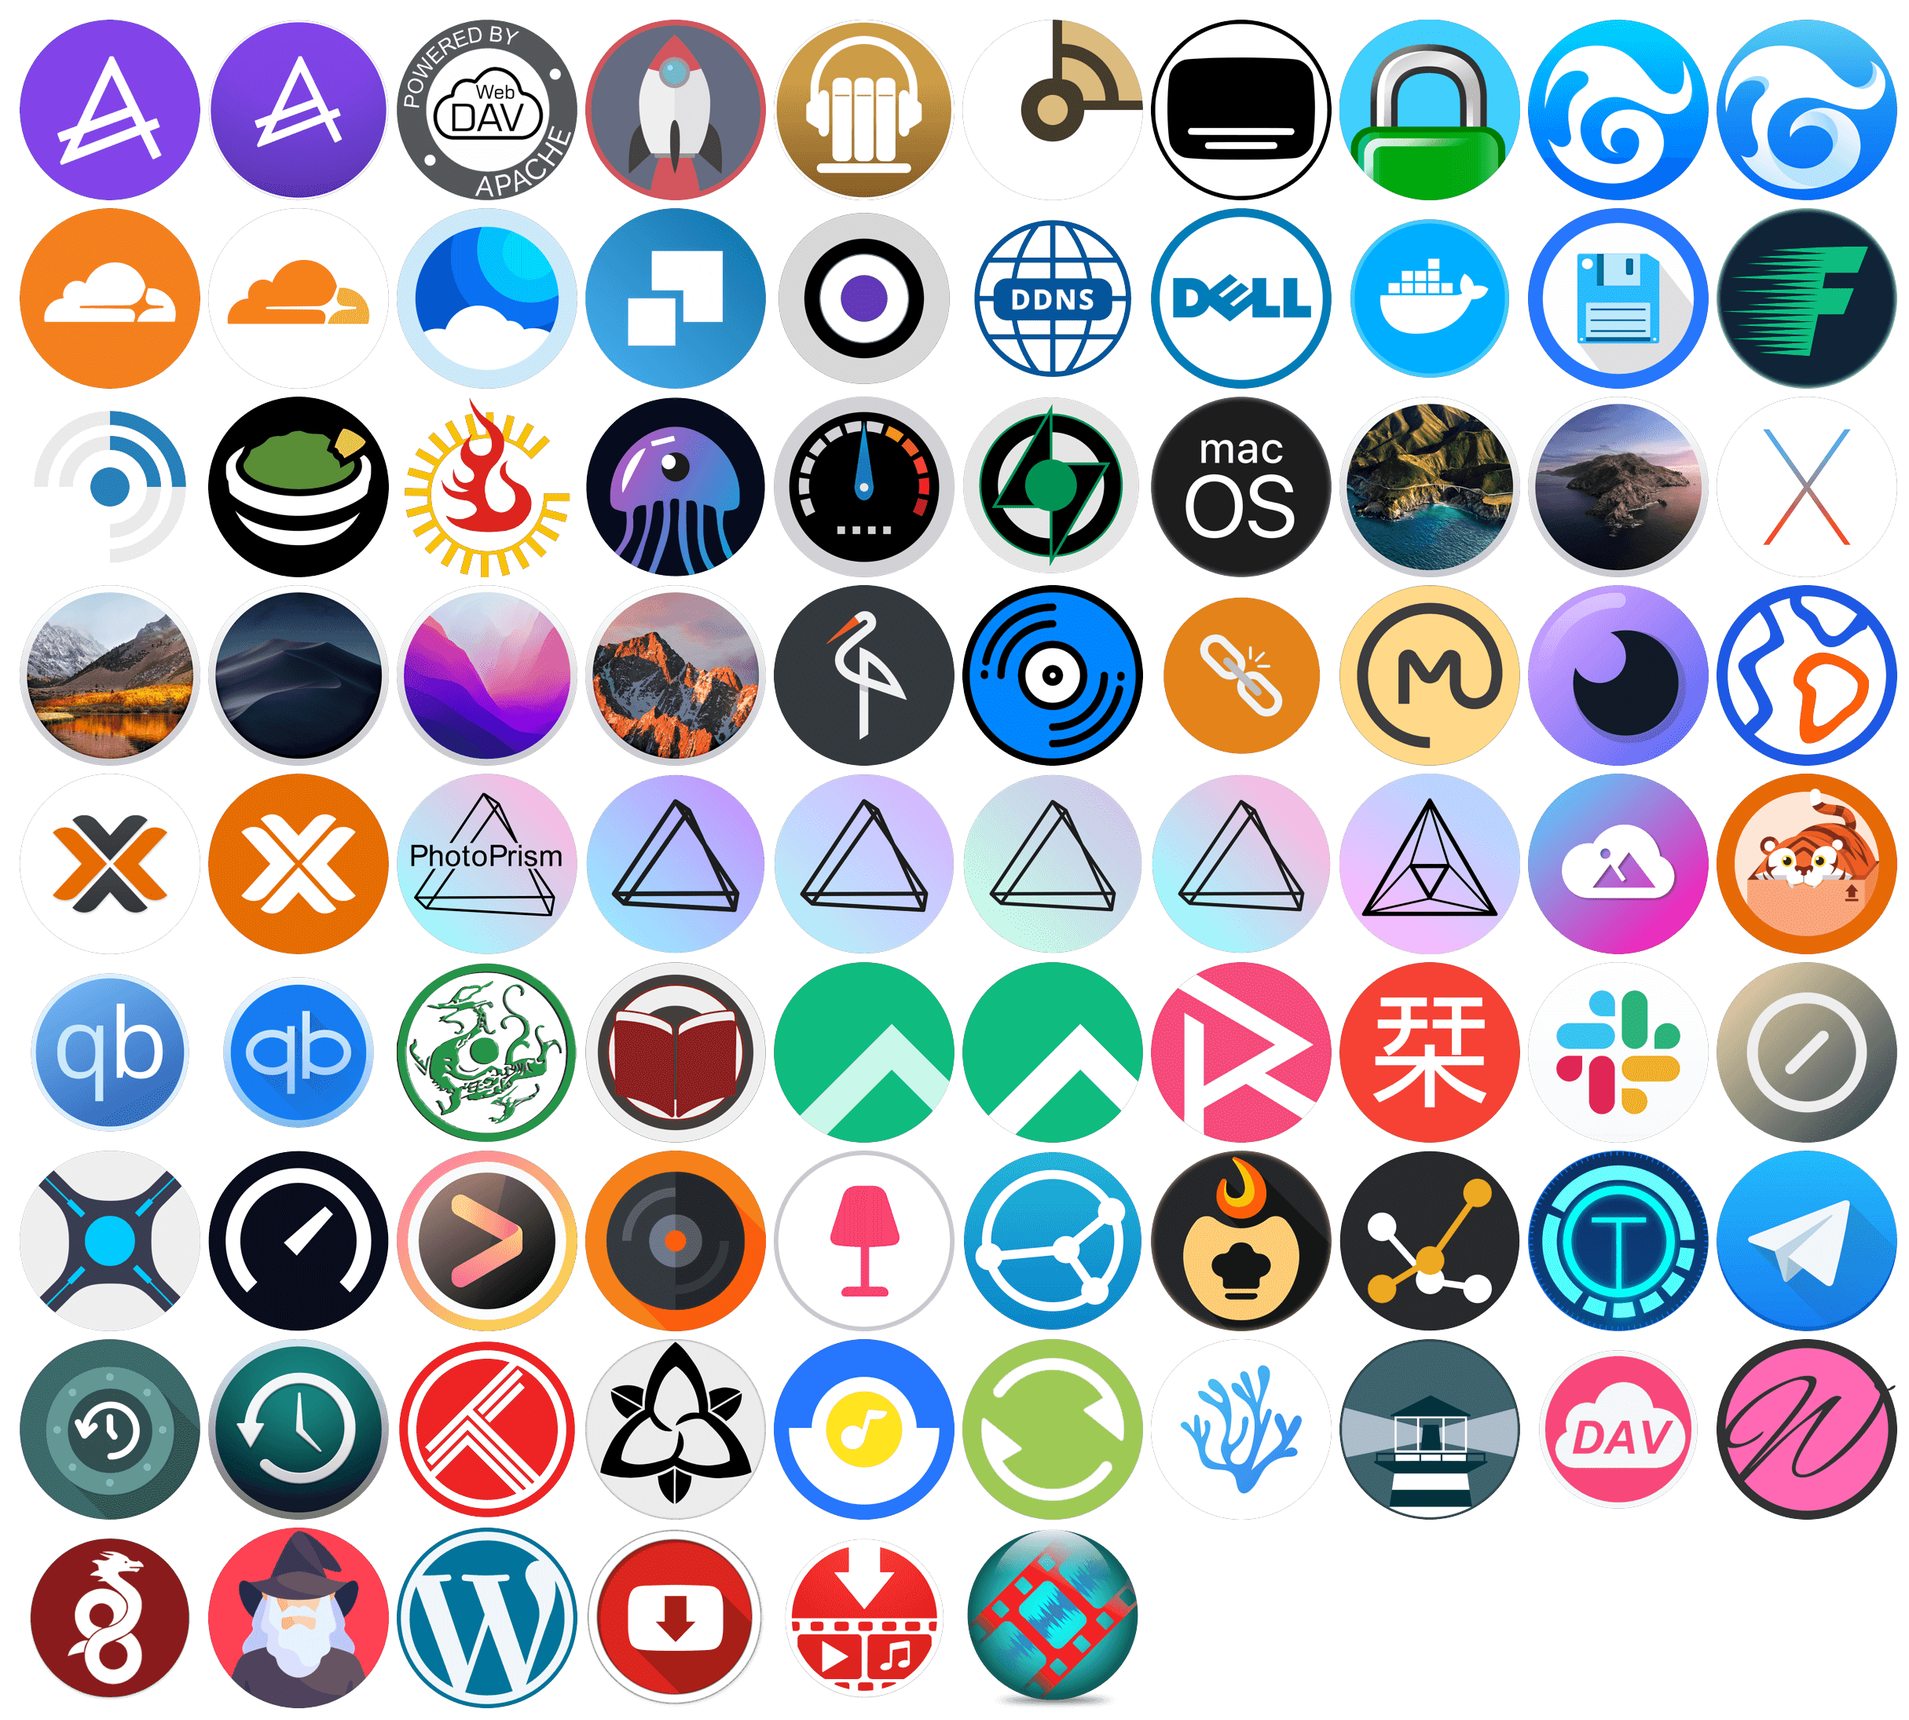
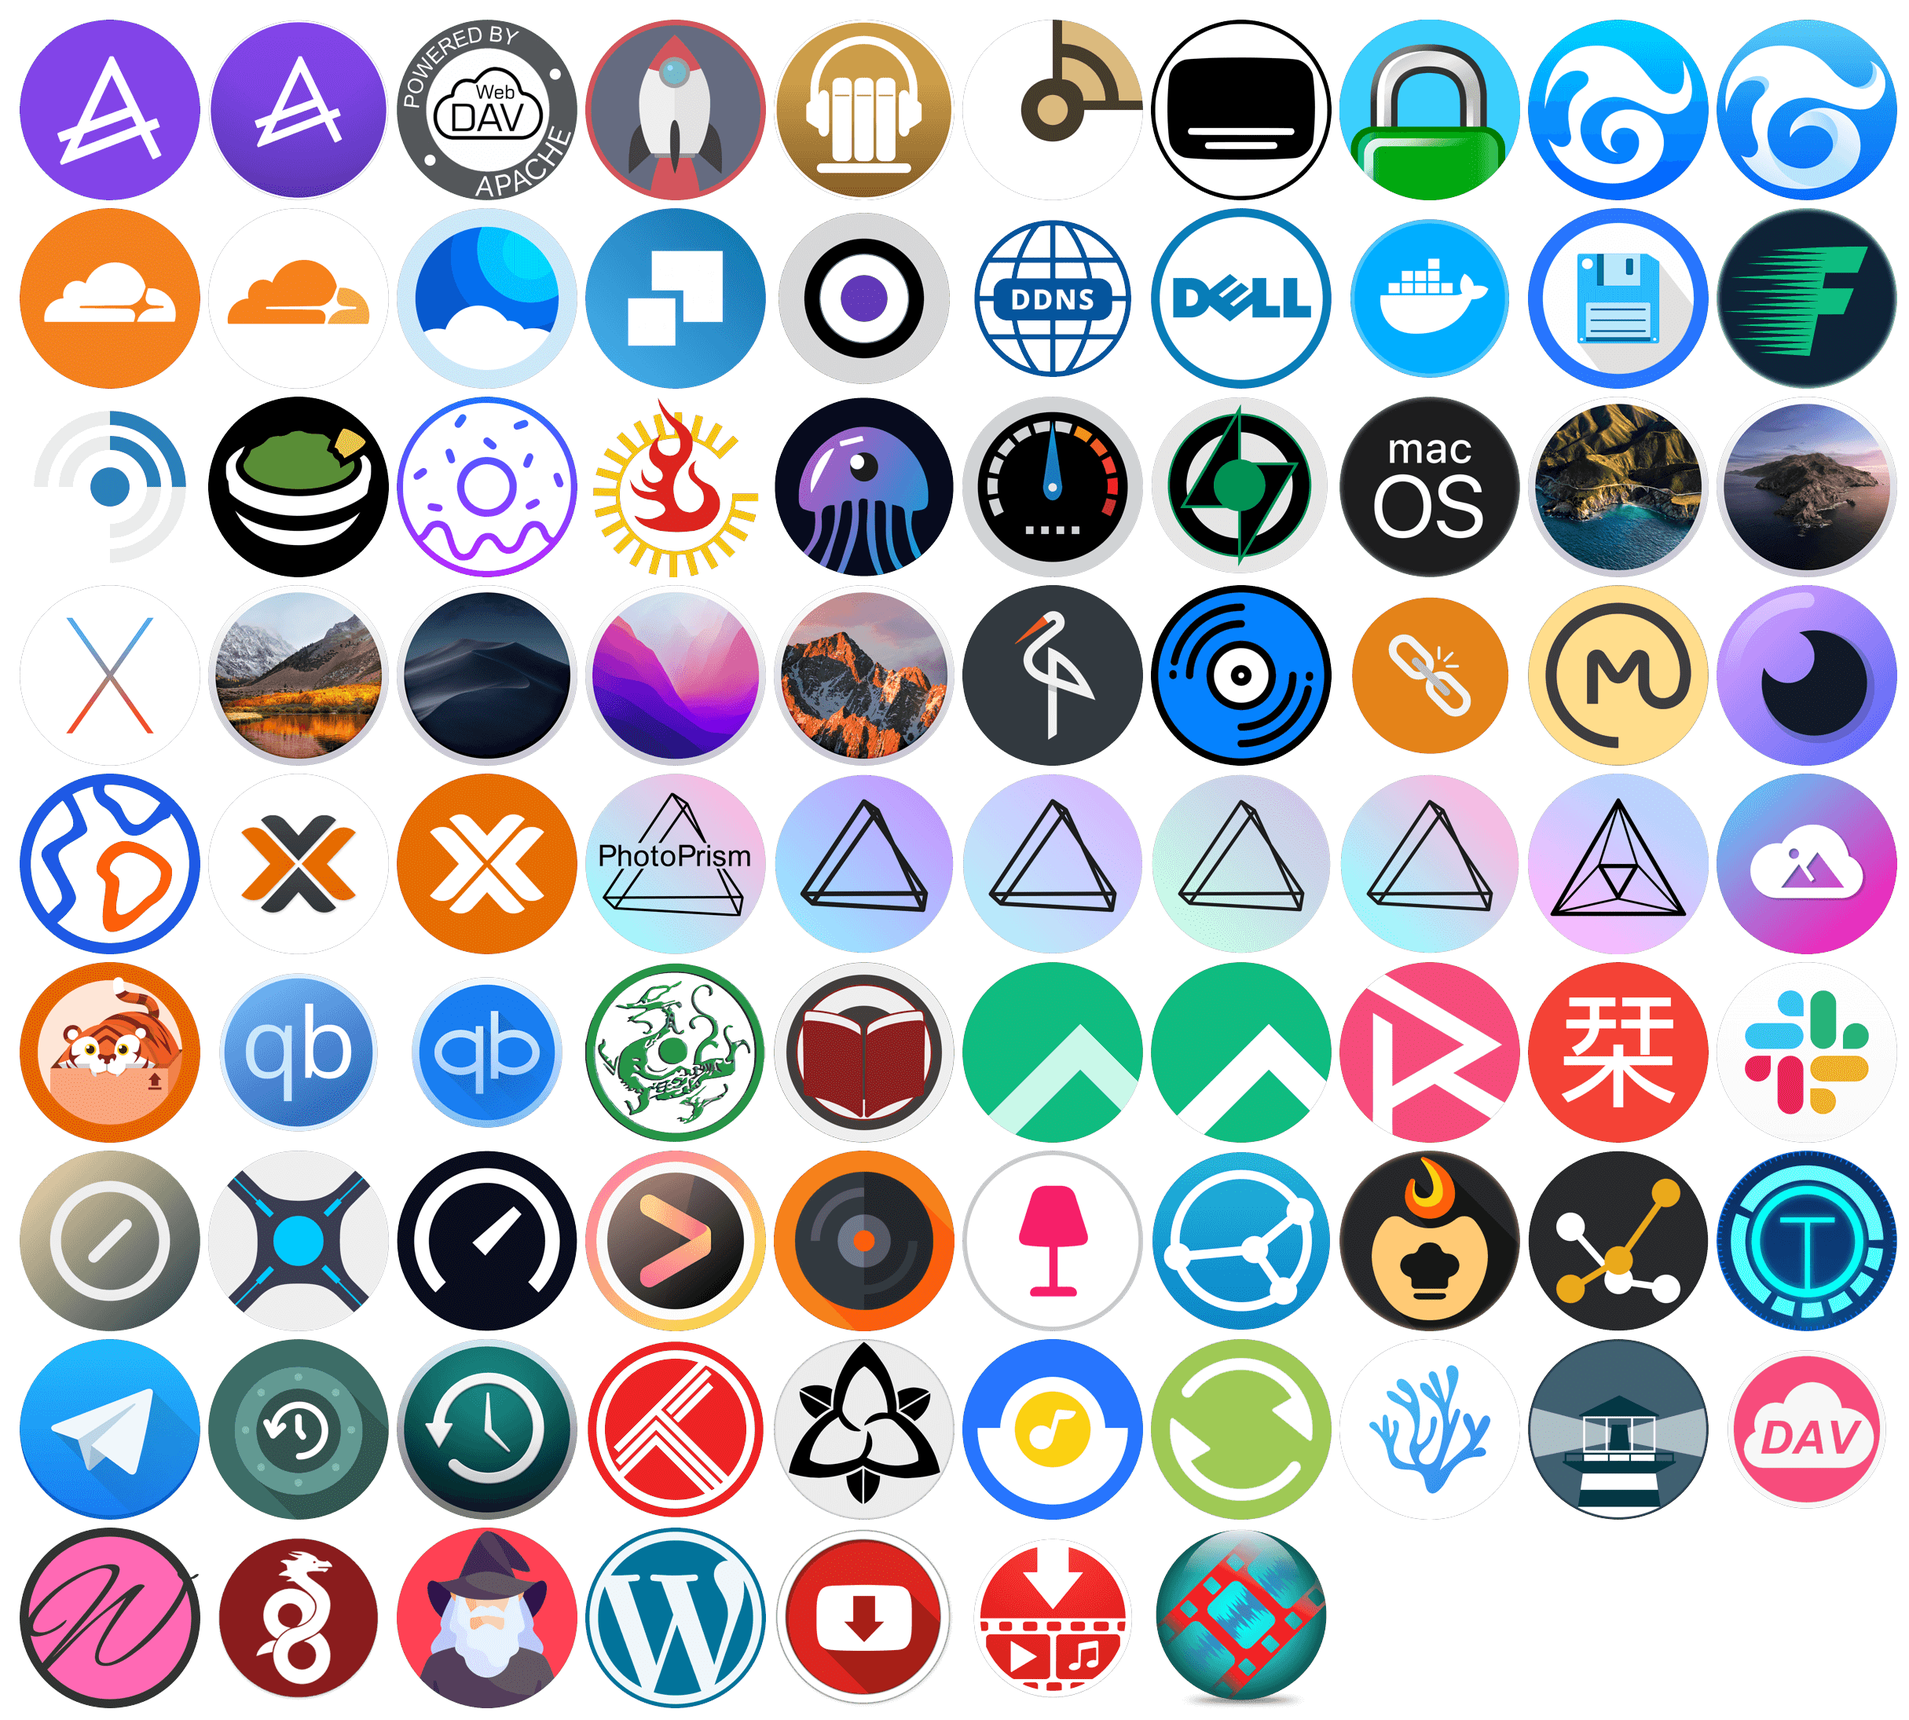
Add Homer、PlexMetaManager、Radarr

diff --git a/README.md b/README.md
@@ -71,7 +71,7 @@
 
 - 例如，图标文件在 `/mnt/user/appdata/icons` 下，则图标地址填写 `/mnt/user/appdata/icons/xxxxx.png` 或者 `http://127.0.0.1/mnt/user/appdata/icons/xxxxx.png`，将 xxxxx 换成对应的图标名称即可，<a href="#圆角矩形图标"><strong>图标名称预览在此 »</strong></a>
 
-# 图标预览（当前共计 831 个）
+# 图标预览（当前共计 840 个）
 ## 圆角矩形图标
 <!-- START BORDER-RADIUS ICONS -->
 <img src="https://github.com/xushier/HD-Icons/blob/main/_icons-radius.png?raw=true" alt="radius">
@@ -86,7 +86,7 @@
 <!-- START SVG ICONS -->
 
 <!-- END SVG ICONS -->
-<img src="svg/Actual_A.svg" alt="Actual_A" width="95"> <img src="svg/Adguard-home_A.svg" alt="Adguard-home_A" width="95"> <img src="svg/Adminer_A.svg" alt="Adminer_A" width="95"> <img src="svg/Alicloud_A.svg" alt="Alicloud_A" width="95"> <img src="svg/Alist_A.svg" alt="Alist_A" width="95"> <img src="svg/Amule_A.svg" alt="Amule_A" width="95"> <img src="svg/Apache_A.svg" alt="Apache_A" width="95"> <img src="svg/Apache_B.svg" alt="Apache_B" width="95"> <img src="svg/Apache_C.svg" alt="Apache_C" width="95"> <img src="svg/Appletv+_A.svg" alt="Appletv+_A" width="95"> <img src="svg/Arch_A.svg" alt="Arch_A" width="95"> <img src="svg/Audio-bookshelf_A.svg" alt="Audio-bookshelf_A" width="95"> <img src="svg/Authelia_A.svg" alt="Authelia_A" width="95"> <img src="svg/Authelia_B.svg" alt="Authelia_B" width="95"> <img src="svg/Autobrr_A.svg" alt="Autobrr_A" width="95"> <img src="svg/Baidu_A.svg" alt="Baidu_A" width="95"> <img src="svg/Bard_A.svg" alt="Bard_A" width="95"> <img src="svg/Bazarr_A.svg" alt="Bazarr_A" width="95"> <img src="svg/Bilibili_A.svg" alt="Bilibili_A" width="95"> <img src="svg/Bililive-recorder_A.svg" alt="Bililive-recorder_A" width="95"> <img src="svg/Bitwarden_A.svg" alt="Bitwarden_A" width="95"> <img src="svg/Bitwarden_B.svg" alt="Bitwarden_B" width="95"> <img src="svg/Caddy_A.svg" alt="Caddy_A" width="95"> <img src="svg/Calibre-web_A.svg" alt="Calibre-web_A" width="95"> <img src="svg/Casaos_A.svg" alt="Casaos_A" width="95"> <img src="svg/Centos_A.svg" alt="Centos_A" width="95"> <img src="svg/Centos_B.svg" alt="Centos_B" width="95"> <img src="svg/Chatgpt_A.svg" alt="Chatgpt_A" width="95"> <img src="svg/Chatgpt_B.svg" alt="Chatgpt_B" width="95"> <img src="svg/Chevereto_A.svg" alt="Chevereto_A" width="95"> <img src="svg/Chrome_A.svg" alt="Chrome_A" width="95"> <img src="svg/Cloud-beaver_A.svg" alt="Cloud-beaver_A" width="95"> <img src="svg/Cloud-beaver_B.svg" alt="Cloud-beaver_B" width="95"> <img src="svg/Cloudflare_A.svg" alt="Cloudflare_A" width="95"> <img src="svg/Cloudflare_B.svg" alt="Cloudflare_B" width="95"> <img src="svg/Cloudreve_A.svg" alt="Cloudreve_A" width="95"> <img src="svg/Code-server_A.svg" alt="Code-server_A" width="95"> <img src="svg/Codex-docs_A.svg" alt="Codex-docs_A" width="95"> <img src="svg/Cyberchef_A.svg" alt="Cyberchef_A" width="95"> <img src="svg/Cyberchef_B.svg" alt="Cyberchef_B" width="95"> <img src="svg/Debian_A.svg" alt="Debian_A" width="95"> <img src="svg/Debian_B.svg" alt="Debian_B" width="95"> <img src="svg/Deepin_A.svg" alt="Deepin_A" width="95"> <img src="svg/Dell_A.svg" alt="Dell_A" width="95"> <img src="svg/Deluge_A.svg" alt="Deluge_A" width="95"> <img src="svg/Directus_A.svg" alt="Directus_A" width="95"> <img src="svg/Directus_B.svg" alt="Directus_B" width="95"> <img src="svg/Discord_A.svg" alt="Discord_A" width="95"> <img src="svg/Docker-registry_A.svg" alt="Docker-registry_A" width="95"> <img src="svg/Docker_A.svg" alt="Docker_A" width="95"> <img src="svg/Docker_B.svg" alt="Docker_B" width="95"> <img src="svg/Docker_C.svg" alt="Docker_C" width="95"> <img src="svg/Docker_D.svg" alt="Docker_D" width="95"> <img src="svg/Dootask.svg" alt="Dootask" width="95"> <img src="svg/Dozzle_A.svg" alt="Dozzle_A" width="95"> <img src="svg/Drawio_A.svg" alt="Drawio_A" width="95"> <img src="svg/Duplicati_A.svg" alt="Duplicati_A" width="95"> <img src="svg/Element_A.svg" alt="Element_A" width="95"> <img src="svg/Focalboard_A.svg" alt="Focalboard_A" width="95"> <img src="svg/Gcore_A.svg" alt="Gcore_A" width="95"> <img src="svg/It-tools_A.svg" alt="It-tools_A" width="95"> <img src="svg/Jfa-go_A.svg" alt="Jfa-go_A" width="95"> <img src="svg/Jfa-go_B.svg" alt="Jfa-go_B" width="95"> <img src="svg/Librespeed_A.svg" alt="Librespeed_A" width="95"> <img src="svg/Nezha_A.svg" alt="Nezha_A" width="95"> <img src="svg/Nginx_A.svg" alt="Nginx_A" width="95"> <img src="svg/Nginx_B.svg" alt="Nginx_B" width="95"> <img src="svg/Nginx_C.svg" alt="Nginx_C" width="95"> <img src="svg/Nut_A.svg" alt="Nut_A" width="95"> <img src="svg/Nvidia_A.svg" alt="Nvidia_A" width="95"> <img src="svg/Plex_A.svg" alt="Plex_A" width="95"> <img src="svg/Plex_B.svg" alt="Plex_B" width="95"> <img src="svg/Plex_C.svg" alt="Plex_C" width="95"> <img src="svg/Ptools_A.svg" alt="Ptools_A" width="95"> <img src="svg/Qnap_A.svg" alt="Qnap_A" width="95"> <img src="svg/Qnap_B.svg" alt="Qnap_B" width="95"> <img src="svg/Quill_A.svg" alt="Quill_A" width="95"> <img src="svg/Rocky_A.svg" alt="Rocky_A" width="95"> <img src="svg/Rog_A.svg" alt="Rog_A" width="95"> <img src="svg/Snapdrop_A.svg" alt="Snapdrop_A" width="95"> <img src="svg/Swing-music_A.svg" alt="Swing-music_A" width="95"> <img src="svg/Team-mapper_A.svg" alt="Team-mapper_A" width="95"> <img src="svg/Telegram_A.svg" alt="Telegram_A" width="95"> <img src="svg/Telegram_B.svg" alt="Telegram_B" width="95"> <img src="svg/Telegram_C.svg" alt="Telegram_C" width="95"> <img src="svg/Ubuntu_A.svg" alt="Ubuntu_A" width="95"> <img src="svg/Ubuntu_B.svg" alt="Ubuntu_B" width="95"> <img src="svg/Ubuntu_C.svg" alt="Ubuntu_C" width="95"> <img src="svg/Unbalance_A.svg" alt="Unbalance_A" width="95"> <img src="svg/Unlock-music_A.svg" alt="Unlock-music_A" width="95"> <img src="svg/Unraid_A.svg" alt="Unraid_A" width="95"> <img src="svg/Uptime-kuma_A.svg" alt="Uptime-kuma_A" width="95"> <img src="svg/V2raya_A.svg" alt="V2raya_A" width="95"> <img src="svg/Vagrant_A.svg" alt="Vagrant_A" width="95"> <img src="svg/Vertex_A.svg" alt="Vertex_A" width="95"> <img src="svg/Vertex_B.svg" alt="Vertex_B" width="95"> <img src="svg/Vmware_A.svg" alt="Vmware_A" width="95"> <img src="svg/Vscode_A.svg" alt="Vscode_A" width="95"> <img src="svg/Vscode_B.svg" alt="Vscode_B" width="95"> <img src="svg/Vscodium_A.svg" alt="Vscodium_A" width="95"> <img src="svg/Vscodium_B.svg" alt="Vscodium_B" width="95"> <img src="svg/Wallabag_A.svg" alt="Wallabag_A" width="95"> <img src="svg/Wallabag_B.svg" alt="Wallabag_B" width="95"> <img src="svg/Wallabag_C.svg" alt="Wallabag_C" width="95"> <img src="svg/Watchtower_A.svg" alt="Watchtower_A" width="95"> <img src="svg/Wbo_A.svg" alt="Wbo_A" width="95"> <img src="svg/Wechat_A.svg" alt="Wechat_A" width="95"> <img src="svg/Wechat_B.svg" alt="Wechat_B" width="95"> <img src="svg/Wekan_A.svg" alt="Wekan_A" width="95"> <img src="svg/Wekan_B.svg" alt="Wekan_B" width="95"> <img src="svg/Whisparr_A.svg" alt="Whisparr_A" width="95"> <img src="svg/Wikijs_A.svg" alt="Wikijs_A" width="95"> <img src="svg/Wireguard_A.svg" alt="Wireguard_A" width="95"> <img src="svg/Wise-mapping_A.svg" alt="Wise-mapping_A" width="95"> <img src="svg/Wordpress_A.svg" alt="Wordpress_A" width="95"> <img src="svg/Youtube_A.svg" alt="Youtube_A" width="95"> <img src="svg/Youtube_B.svg" alt="Youtube_B" width="95"> <img src="svg/Youtube_C.svg" alt="Youtube_C" width="95"> <img src="svg/Youtube_D.svg" alt="Youtube_D" width="95"> <img src="svg/Youtube_E.svg" alt="Youtube_E" width="95"> <img src="svg/Zigbeemqtt_A.svg" alt="Zigbeemqtt_A" width="95">
+<img src="svg/Actual_A.svg" alt="Actual_A" width="95"> <img src="svg/Adguard-home_A.svg" alt="Adguard-home_A" width="95"> <img src="svg/Adminer_A.svg" alt="Adminer_A" width="95"> <img src="svg/Alicloud_A.svg" alt="Alicloud_A" width="95"> <img src="svg/Alist_A.svg" alt="Alist_A" width="95"> <img src="svg/Amule_A.svg" alt="Amule_A" width="95"> <img src="svg/Apache_A.svg" alt="Apache_A" width="95"> <img src="svg/Apache_B.svg" alt="Apache_B" width="95"> <img src="svg/Apache_C.svg" alt="Apache_C" width="95"> <img src="svg/Appletv+_A.svg" alt="Appletv+_A" width="95"> <img src="svg/Arch_A.svg" alt="Arch_A" width="95"> <img src="svg/Audio-bookshelf_A.svg" alt="Audio-bookshelf_A" width="95"> <img src="svg/Authelia_A.svg" alt="Authelia_A" width="95"> <img src="svg/Authelia_B.svg" alt="Authelia_B" width="95"> <img src="svg/Autobrr_A.svg" alt="Autobrr_A" width="95"> <img src="svg/Baidu_A.svg" alt="Baidu_A" width="95"> <img src="svg/Bard_A.svg" alt="Bard_A" width="95"> <img src="svg/Bazarr_A.svg" alt="Bazarr_A" width="95"> <img src="svg/Bilibili_A.svg" alt="Bilibili_A" width="95"> <img src="svg/Bililive-recorder_A.svg" alt="Bililive-recorder_A" width="95"> <img src="svg/Bitwarden_A.svg" alt="Bitwarden_A" width="95"> <img src="svg/Bitwarden_B.svg" alt="Bitwarden_B" width="95"> <img src="svg/Caddy_A.svg" alt="Caddy_A" width="95"> <img src="svg/Calibre-web_A.svg" alt="Calibre-web_A" width="95"> <img src="svg/Casaos_A.svg" alt="Casaos_A" width="95"> <img src="svg/Centos_A.svg" alt="Centos_A" width="95"> <img src="svg/Centos_B.svg" alt="Centos_B" width="95"> <img src="svg/Chatgpt_A.svg" alt="Chatgpt_A" width="95"> <img src="svg/Chatgpt_B.svg" alt="Chatgpt_B" width="95"> <img src="svg/Chevereto_A.svg" alt="Chevereto_A" width="95"> <img src="svg/Chrome_A.svg" alt="Chrome_A" width="95"> <img src="svg/Cloud-beaver_A.svg" alt="Cloud-beaver_A" width="95"> <img src="svg/Cloud-beaver_B.svg" alt="Cloud-beaver_B" width="95"> <img src="svg/Cloudflare_A.svg" alt="Cloudflare_A" width="95"> <img src="svg/Cloudflare_B.svg" alt="Cloudflare_B" width="95"> <img src="svg/Cloudreve_A.svg" alt="Cloudreve_A" width="95"> <img src="svg/Code-server_A.svg" alt="Code-server_A" width="95"> <img src="svg/Codex-docs_A.svg" alt="Codex-docs_A" width="95"> <img src="svg/Cyberchef_A.svg" alt="Cyberchef_A" width="95"> <img src="svg/Cyberchef_B.svg" alt="Cyberchef_B" width="95"> <img src="svg/Debian_A.svg" alt="Debian_A" width="95"> <img src="svg/Debian_B.svg" alt="Debian_B" width="95"> <img src="svg/Deepin_A.svg" alt="Deepin_A" width="95"> <img src="svg/Dell_A.svg" alt="Dell_A" width="95"> <img src="svg/Deluge_A.svg" alt="Deluge_A" width="95"> <img src="svg/Directus_A.svg" alt="Directus_A" width="95"> <img src="svg/Directus_B.svg" alt="Directus_B" width="95"> <img src="svg/Discord_A.svg" alt="Discord_A" width="95"> <img src="svg/Docker-registry_A.svg" alt="Docker-registry_A" width="95"> <img src="svg/Docker_A.svg" alt="Docker_A" width="95"> <img src="svg/Docker_B.svg" alt="Docker_B" width="95"> <img src="svg/Docker_C.svg" alt="Docker_C" width="95"> <img src="svg/Docker_D.svg" alt="Docker_D" width="95"> <img src="svg/Dootask.svg" alt="Dootask" width="95"> <img src="svg/Dozzle_A.svg" alt="Dozzle_A" width="95"> <img src="svg/Drawio_A.svg" alt="Drawio_A" width="95"> <img src="svg/Duplicati_A.svg" alt="Duplicati_A" width="95"> <img src="svg/Element_A.svg" alt="Element_A" width="95"> <img src="svg/Focalboard_A.svg" alt="Focalboard_A" width="95"> <img src="svg/Gcore_A.svg" alt="Gcore_A" width="95"> <img src="svg/Homer_A.svg" alt="Homer_A" width="95"> <img src="svg/It-tools_A.svg" alt="It-tools_A" width="95"> <img src="svg/Jfa-go_A.svg" alt="Jfa-go_A" width="95"> <img src="svg/Jfa-go_B.svg" alt="Jfa-go_B" width="95"> <img src="svg/Librespeed_A.svg" alt="Librespeed_A" width="95"> <img src="svg/Nezha_A.svg" alt="Nezha_A" width="95"> <img src="svg/Nginx_A.svg" alt="Nginx_A" width="95"> <img src="svg/Nginx_B.svg" alt="Nginx_B" width="95"> <img src="svg/Nginx_C.svg" alt="Nginx_C" width="95"> <img src="svg/Nut_A.svg" alt="Nut_A" width="95"> <img src="svg/Nvidia_A.svg" alt="Nvidia_A" width="95"> <img src="svg/Plex_A.svg" alt="Plex_A" width="95"> <img src="svg/Plex_B.svg" alt="Plex_B" width="95"> <img src="svg/Plex_C.svg" alt="Plex_C" width="95"> <img src="svg/Ptools_A.svg" alt="Ptools_A" width="95"> <img src="svg/Qnap_A.svg" alt="Qnap_A" width="95"> <img src="svg/Qnap_B.svg" alt="Qnap_B" width="95"> <img src="svg/Quill_A.svg" alt="Quill_A" width="95"> <img src="svg/Radarr_A.svg" alt="Radarr_A" width="95"> <img src="svg/Rocky_A.svg" alt="Rocky_A" width="95"> <img src="svg/Rog_A.svg" alt="Rog_A" width="95"> <img src="svg/Snapdrop_A.svg" alt="Snapdrop_A" width="95"> <img src="svg/Swing-music_A.svg" alt="Swing-music_A" width="95"> <img src="svg/Team-mapper_A.svg" alt="Team-mapper_A" width="95"> <img src="svg/Telegram_A.svg" alt="Telegram_A" width="95"> <img src="svg/Telegram_B.svg" alt="Telegram_B" width="95"> <img src="svg/Telegram_C.svg" alt="Telegram_C" width="95"> <img src="svg/Ubuntu_A.svg" alt="Ubuntu_A" width="95"> <img src="svg/Ubuntu_B.svg" alt="Ubuntu_B" width="95"> <img src="svg/Ubuntu_C.svg" alt="Ubuntu_C" width="95"> <img src="svg/Unbalance_A.svg" alt="Unbalance_A" width="95"> <img src="svg/Unlock-music_A.svg" alt="Unlock-music_A" width="95"> <img src="svg/Unraid_A.svg" alt="Unraid_A" width="95"> <img src="svg/Uptime-kuma_A.svg" alt="Uptime-kuma_A" width="95"> <img src="svg/V2raya_A.svg" alt="V2raya_A" width="95"> <img src="svg/Vagrant_A.svg" alt="Vagrant_A" width="95"> <img src="svg/Vertex_A.svg" alt="Vertex_A" width="95"> <img src="svg/Vertex_B.svg" alt="Vertex_B" width="95"> <img src="svg/Vmware_A.svg" alt="Vmware_A" width="95"> <img src="svg/Vscode_A.svg" alt="Vscode_A" width="95"> <img src="svg/Vscode_B.svg" alt="Vscode_B" width="95"> <img src="svg/Vscodium_A.svg" alt="Vscodium_A" width="95"> <img src="svg/Vscodium_B.svg" alt="Vscodium_B" width="95"> <img src="svg/Wallabag_A.svg" alt="Wallabag_A" width="95"> <img src="svg/Wallabag_B.svg" alt="Wallabag_B" width="95"> <img src="svg/Wallabag_C.svg" alt="Wallabag_C" width="95"> <img src="svg/Watchtower_A.svg" alt="Watchtower_A" width="95"> <img src="svg/Wbo_A.svg" alt="Wbo_A" width="95"> <img src="svg/Wechat_A.svg" alt="Wechat_A" width="95"> <img src="svg/Wechat_B.svg" alt="Wechat_B" width="95"> <img src="svg/Wekan_A.svg" alt="Wekan_A" width="95"> <img src="svg/Wekan_B.svg" alt="Wekan_B" width="95"> <img src="svg/Whisparr_A.svg" alt="Whisparr_A" width="95"> <img src="svg/Wikijs_A.svg" alt="Wikijs_A" width="95"> <img src="svg/Wireguard_A.svg" alt="Wireguard_A" width="95"> <img src="svg/Wise-mapping_A.svg" alt="Wise-mapping_A" width="95"> <img src="svg/Wordpress_A.svg" alt="Wordpress_A" width="95"> <img src="svg/Youtube_A.svg" alt="Youtube_A" width="95"> <img src="svg/Youtube_B.svg" alt="Youtube_B" width="95"> <img src="svg/Youtube_C.svg" alt="Youtube_C" width="95"> <img src="svg/Youtube_D.svg" alt="Youtube_D" width="95"> <img src="svg/Youtube_E.svg" alt="Youtube_E" width="95"> <img src="svg/Zigbeemqtt_A.svg" alt="Zigbeemqtt_A" width="95">
 
 <!-- LEGAL -->
 
